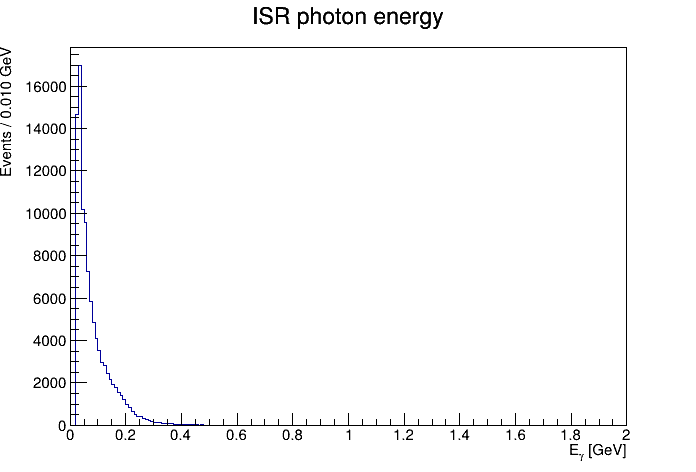
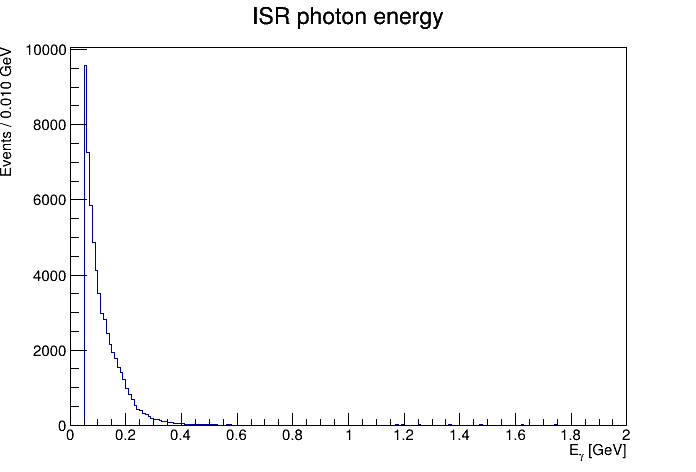
failed attemp at fixing the boundaries of the dalitz plot

diff --git a/part1_PID/ZcAnalysis.C b/part1_PID/ZcAnalysis.C
@@ -12,6 +12,12 @@
 #include <Math/Vector3D.h>
 #include <Math/Vector4D.h>
 
+// dalitz plot boundary
+double lambda(double a, double b, double c)
+{
+    return a*a + b*b + c*c - 2*a*b - 2*a*c - 2*b*c;
+}
+
 // Vector definitions
 using P3 = ROOT::Math::XYZVector;       // Three-vector
 using P4E = ROOT::Math::PxPyPzEVector;  // Four-vector with energy
@@ -120,9 +126,9 @@ TH1D* h1_mass_recoil = new TH1D(
 // problem 3.6
 TH2D* h2_dalitz = new TH2D(
 "h2_dalitz",
-"Dalitz plot; m^{2}_{J/#psi #pi} [GeV^{2}]; m^{2}_{#pi^{+}#pi^{-}} [GeV^{2}]",
-300,0,20,
-300,0,4
+"Dalitz plot; m^{2}_{#pi^{+}#pi^{-}} [GeV^{2}]; m^{2}_{J/#psi #pi} [GeV^{2}]",
+300,0,1.5,
+300,9,18
 );
 // problem 4.1
 TH1D* h1_mJpsi_pipi = new TH1D(
@@ -134,6 +140,11 @@ TH1D* h1_mJpsi_pipi = new TH1D(
 TH1D* h1_Egamma = new TH1D(
     "h1_Egamma",
     "ISR photon energy;E_{#gamma} [GeV];Events",
+    200, 0, 2
+);
+TH1D* h1_Egamma_ISR = new TH1D(
+    "h1_Egamma_ISR",
+    "ISR photon energy from kinematics;E_{#gamma} [GeV];Events",
     200, 0, 2
 );
 
@@ -160,6 +171,7 @@ TH1D* h1_chi2_4C = new TH1D(
     200,0,200
 );
 //Problem 2.4
+double m_jpsi = 3.0969;  // Gev
 double m_pi = 0.13957;   // GeV
 double m_e  = 0.000511;  // GeV
 double m_mu = 0.10566;   // GeV
@@ -346,12 +358,12 @@ if (pi_plus.size()==1 && pi_minus.size()==1)
 }
 if (!(electronEvent || muonEvent))
 continue;
+
+
 // problem 4.2
 double chi2 = dblKinFit4CChiSq;
 h1_chi2_4C->Fill(chi2);
-// applying cut at chi^2 40
-if (chi2 > 40)
-    continue;
+
 // problem 4.1
 // reconstruct J/psi
 P4M Jpsi;
@@ -370,6 +382,13 @@ P4M total = Jpsi + pions;
 // missing energy
 double Emiss = pCMS.E() - total.E();
 
+double s = sqrt_s * sqrt_s;
+double M = total.M();
+
+double Egamma_ISR = (s - M*M) / (2 * sqrt_s);
+
+h1_Egamma_ISR->Fill(Egamma_ISR);
+
 
 // ---------------- BEFORE χ² CUT ----------------
 h1_mJpsi_pipi_before->Fill(total.M());
@@ -377,7 +396,7 @@ h1_Emiss_before->Fill(Emiss);
 
 
 // ---------------- χ² DISTRIBUTION ----------------
-double chi2 = dblKinFit4CChiSq;
+
 h1_chi2_4C->Fill(chi2);
 
 
@@ -395,11 +414,11 @@ h1_Emiss->Fill(Emiss);
 for (int i = 0; i < intNumberGoodPhotons; i++)
 {
     double Egamma = dblPhotonsE[i];
+    if (Egamma < 0.05) continue;   // remove very soft clusters
     h1_Egamma->Fill(Egamma);
 }
 //problem 3.6
 // event passed selection
-
 if (pi_plus.size()==1 && pi_minus.size()==1)
 {
     P4M pipi = pi_plus[0] + pi_minus[0];
@@ -409,19 +428,25 @@ if (pi_plus.size()==1 && pi_minus.size()==1)
     {
         P4M Jpsi = e_plus[0] + e_minus[0];
 
-        h2_dalitz->Fill((Jpsi + pi_plus[0]).M2(), m2_pipi);
-        h2_dalitz->Fill((Jpsi + pi_minus[0]).M2(), m2_pipi);
+        double m2_jpsipi1 = (Jpsi + pi_plus[0]).M2();
+        double m2_jpsipi2 = (Jpsi + pi_minus[0]).M2();
+
+        h2_dalitz->Fill(m2_pipi, m2_jpsipi1);
+        h2_dalitz->Fill(m2_pipi, m2_jpsipi2);
     }
 
     if (muonEvent)
     {
         P4M Jpsi = mu_plus[0] + mu_minus[0];
 
-        h2_dalitz->Fill((Jpsi + pi_plus[0]).M2(), m2_pipi);
-        h2_dalitz->Fill((Jpsi + pi_minus[0]).M2(), m2_pipi);
+        double m2_jpsipi1 = (Jpsi + pi_plus[0]).M2();
+        double m2_jpsipi2 = (Jpsi + pi_minus[0]).M2();
+
+        h2_dalitz->Fill(m2_pipi, m2_jpsipi1);
+        h2_dalitz->Fill(m2_pipi, m2_jpsipi2);
     }
 }
-    selectedEvents++;
+ selectedEvents++;   
     // // problem 3.0
     if (electronEvent)
 {
@@ -692,7 +717,53 @@ h1_mJpsi_recoil->Fit(ffit_voigt,"R");
 {
     TCanvas* canvas = new TCanvas("canvas","canvas",1200,900);
     canvas->SetLeftMargin(0.15);
+
+    //  draw Dalitz histogram
     h2_dalitz->Draw("COLZ");
+    gPad->Update();
+
+    double s = sqrt_s * sqrt_s;
+
+    TF1* dalitz_upper = new TF1("dalitz_upper",
+    [=](double *x,double*)
+    {
+        double m2_pipi = x[0];
+
+        double term1 = (s - m_jpsi*m_jpsi - m2_pipi)*(m2_pipi - 2*m_pi*m_pi);
+        double term2 = sqrt(lambda(m2_pipi,m_pi*m_pi,m_pi*m_pi) *
+                            lambda(s,m2_pipi,m_jpsi*m_jpsi));
+
+        return m_jpsi*m_jpsi + m_pi*m_pi + (term1 + term2)/(2*m2_pipi);
+
+    },0.08,1.4,0);
+
+   // quick diagnostic
+    std::cout << "Dalitz upper at x=0.5 : "
+              << dalitz_upper->Eval(0.5)
+              << std::endl;
+    //  define lower boundary
+    TF1* dalitz_lower = new TF1("dalitz_lower",
+[=](double *x,double*)
+{
+    double m2_pipi = x[0];
+
+    double term1 = (s - m_jpsi*m_jpsi - m2_pipi)*(m2_pipi - 2*m_pi*m_pi);
+    double term2 = sqrt(lambda(m2_pipi,m_pi*m_pi,m_pi*m_pi) *
+                        lambda(s,m2_pipi,m_jpsi*m_jpsi));
+
+    return m_jpsi*m_jpsi + m_pi*m_pi + (term1 - term2)/(2*m2_pipi);
+
+},0.08,1.4,0);
+
+    dalitz_upper->SetLineColor(kRed);
+    dalitz_upper->SetLineWidth(3);
+    dalitz_lower->SetLineColor(kRed);
+    dalitz_lower->SetLineWidth(3);
+
+    
+
+    dalitz_upper->Draw("same");
+    dalitz_lower->Draw("same");
 
     canvas->SaveAs(savePath + "Dalitz_plot.png");
 }
@@ -731,7 +802,16 @@ h1_mJpsi_recoil->Fit(ffit_voigt,"R");
    
     canvas->SaveAs(savePath + "ISR_photon_energy.png");
 }
+{
+    TCanvas* canvas = new TCanvas();
 
+    double binWidth = h1_Egamma_ISR->GetBinWidth(1);
+    h1_Egamma_ISR->GetYaxis()->SetTitle(Form("Events / %.3f GeV", binWidth));
+
+    h1_Egamma_ISR->Draw();
+
+    canvas->SaveAs(savePath + "ISR_photon_energy_kinematic.png");
+}
 {
     TCanvas* canvas = new TCanvas();
     double binWidth = h1_Emiss_before->GetBinWidth(1);
